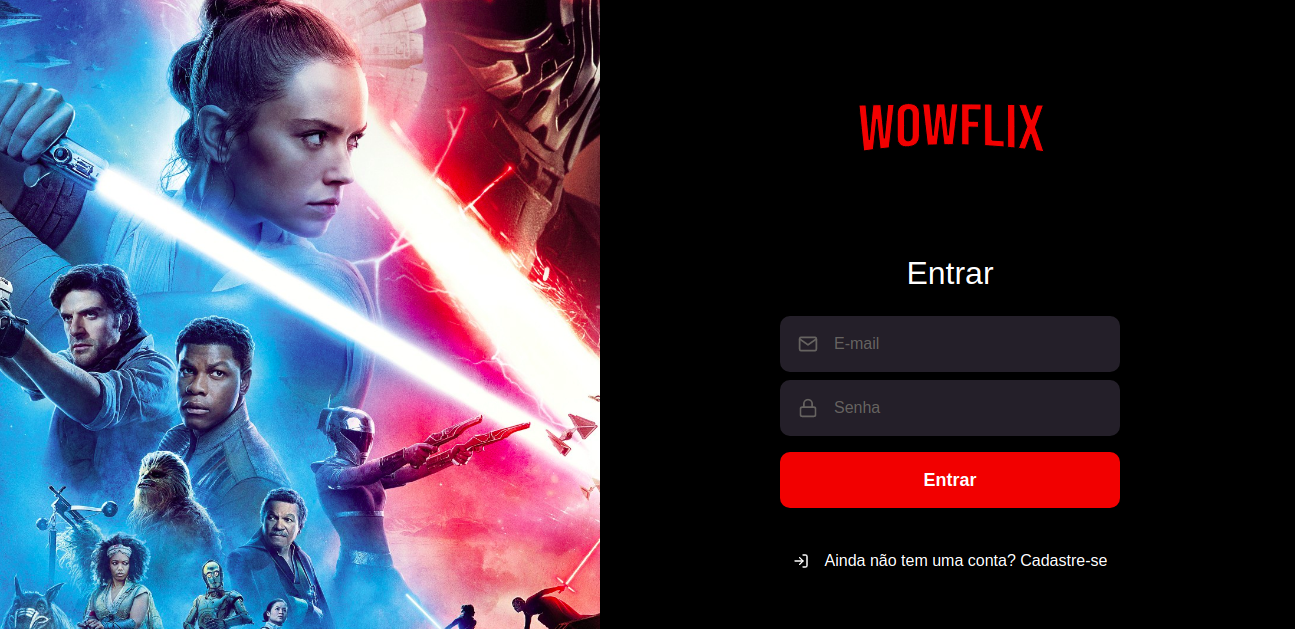
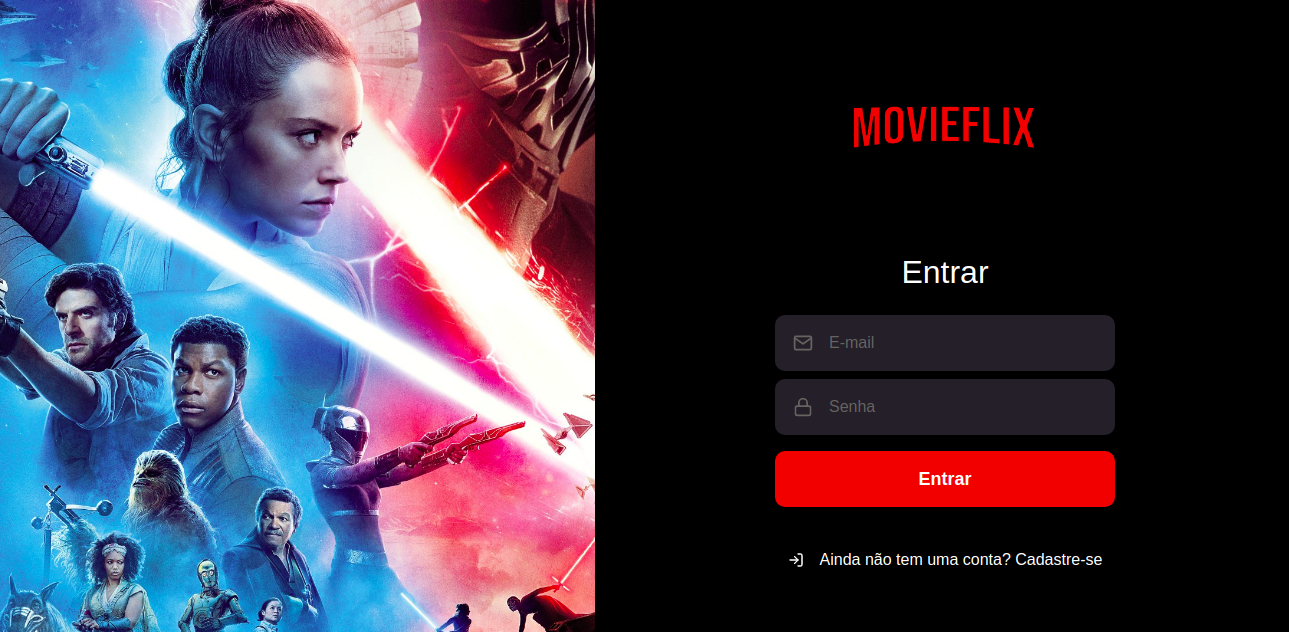
changing texts.

diff --git a/src/components/Header/index.tsx b/src/components/Header/index.tsx
@@ -13,7 +13,7 @@ import {
 } from './styles';
 
 import logoImg from '../../assets/logo.svg';
-import avatarImg from '../../assets/avatar-wow-flix.png';
+import avatarImg from '../../assets/avatar-movie-flix.png';
 import { logout } from '../../store/modules/auth/actions';
 import { IState } from '../../store';
 
@@ -23,7 +23,7 @@ const HeaderComponent: React.FC = () => {
   const dispatch = useDispatch();
 
   const logoutUser = useCallback(() => {
-    localStorage.removeItem('@Wowflix:user');
+    localStorage.removeItem('@Movieflix:user');
 
     dispatch(logout());
 
@@ -34,7 +34,7 @@ const HeaderComponent: React.FC = () => {
     <Header>
       <HeaderContent>
         <NavContent>
-          <img src={logoImg} alt="Wowflix Logo" />
+          <img src={logoImg} alt="Movieflix Logo" />
           <ul>
             <li>
               <Link to="/dashboard">Filmes</Link>

diff --git a/src/pages/Signin/index.tsx b/src/pages/Signin/index.tsx
@@ -43,7 +43,7 @@ const Signin: React.FC = () => {
           if (data.password === user.password) {
             dispatch(signIn(user));
             data.is_online = true;
-            localStorage.setItem('@Wowflix:user', JSON.stringify(data));
+            localStorage.setItem('@Movieflix:user', JSON.stringify(data));
           } else {
             throw new Error('Email e/ou senha incorretos');
           }
@@ -74,7 +74,7 @@ const Signin: React.FC = () => {
       <Background />
       <Content>
         <AnimationContainer>
-          <img src={logoImg} alt="Logo Wowflix" />
+          <img src={logoImg} alt="Logo Movieflix" />
           <Form ref={formRef} onSubmit={handleSubmit}>
             <h1>Entrar</h1>
             <Input icon={FiMail} name="email" placeholder="E-mail" />

diff --git a/src/hooks/auth.tsx b/src/hooks/auth.tsx
@@ -20,7 +20,7 @@ interface AuthContextData {
 const AuthContext = createContext<AuthContextData>({} as AuthContextData);
 
 export const AuthProvider: React.FC = ({ children }) => {
-  const user = localStorage.getItem('@Wowflix:user');
+  const user = localStorage.getItem('@Movieflix:user');
   const dispatch = useDispatch();
 
   const [data, setData] = useState<AuthState>(() => {

diff --git a/src/pages/Signup/index.tsx b/src/pages/Signup/index.tsx
@@ -82,7 +82,7 @@ const Signup: React.FC = () => {
   return (
     <Container>
       <AnimationContainer>
-        <img src={logoImg} alt="Logo Wowflix" />
+        <img src={logoImg} alt="Logo Movieflix" />
         <Form ref={formRef} onSubmit={handleSubmit}>
           <h1>Venha e pegue sua pipoca</h1>
           <Input icon={FiUser} name="name" placeholder="Nome" />

diff --git a/public/index.html b/public/index.html
@@ -4,7 +4,7 @@
     <meta charset="utf-8" />
     <meta name="viewport" content="width=device-width, initial-scale=1" />
     <meta name="theme-color" content="#000000" />
-    <title>Wowflix</title>
+    <title>Movieflix</title>
     <link href="https://fonts.googleapis.com/css2?family=Roboto+Slab:wght@400;500&display=swap" rel="stylesheet">
   </head>
   <body>

diff --git a/src/pages/Dashboard/index.tsx b/src/pages/Dashboard/index.tsx
@@ -128,7 +128,7 @@ const Dashboard: React.FC = () => {
                   />
                 )}
                 <CarouselComponent
-                  category_title="Originais Wowflix"
+                  category_title="Originais Movieflix"
                   movies={loadNetflixOriginalsMedias}
                 />
                 <CarouselComponent

diff --git a/src/pages/Profile/index.tsx b/src/pages/Profile/index.tsx
@@ -73,7 +73,7 @@ const Profile: React.FC = () => {
           is_online: true,
         };
 
-        localStorage.setItem('@Wowflix:user', JSON.stringify(updateUserData));
+        localStorage.setItem('@Movieflix:user', JSON.stringify(updateUserData));
 
         dispatch(updateUser(updateUserData));
 

diff --git a/src/pages/Signup/styles.ts b/src/pages/Signup/styles.ts
@@ -32,6 +32,9 @@ export const AnimationContainer = styled.div`
   align-items: center;
   justify-content: center;
   animation: ${appearFromRight} 1s;
+  img {
+    margin-left: 32px;
+  }
   form {
     margin: 60px 0 20px;
     width: 340px;

diff --git a/src/pages/Signin/styles.ts b/src/pages/Signin/styles.ts
@@ -40,6 +40,9 @@ export const AnimationContainer = styled.div`
   align-items: center;
   justify-content: center;
   animation: ${appearFromLeft} 1s;
+  img {
+    margin-left: 32px;
+  }
   form {
     margin: 60px 0 20px;
     width: 340px;

diff --git a/README.md b/README.md
@@ -1,6 +1,6 @@
 # Introdução
 
-Wowflix - Aplicação para listagem de filmes (API https://themoviedb.org).
+Movieflix - Aplicação para listagem de filmes (API https://themoviedb.org).
 
 # Sobre o build
 
@@ -18,7 +18,7 @@ Frontend:
 
 Frontend:
 
-- Clonar esse repositório com o comando: https://github.com/LuizHonorato/wowflix.git
+- Clonar esse repositório com o comando: https://github.com/LuizHonorato/movieflix.git
 
 - É necessário criar uma conta no The MovieDB, ir até o menu, opção Configuração, na página de configuração ir até a opção API e gerar uma nova chave.
 
